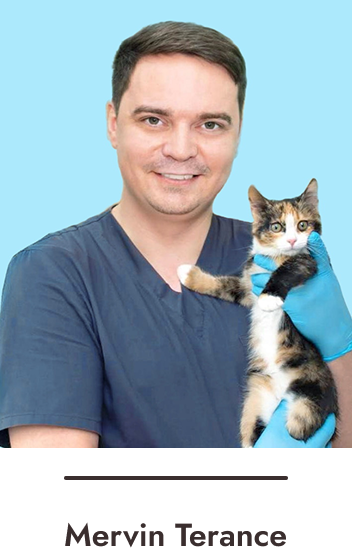
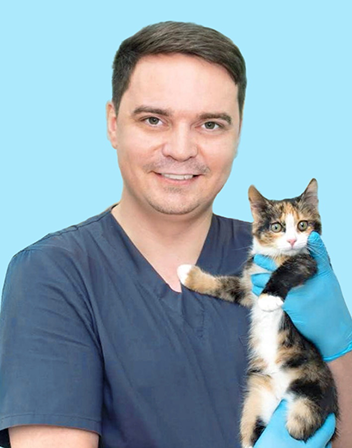
upd

diff --git a/style.css b/style.css
@@ -30,7 +30,7 @@ span{
     width: 1120px;
 }
 
-.header{
+.header{ 
     padding: 32px 0px 27px;
     background-color: #DDF9FF;
     
@@ -46,10 +46,10 @@ span{
     display: flex;
     gap: 64px;
 }
-
+ 
 .header-link{
     font-weight: 700;
-    size: 24px;
+    font-size: 24px;
     color: #3A2E2E;
 }
 
@@ -178,9 +178,7 @@ gap: 15px;
 
 .work-container{
     display: flex;
-    align-items: center;
-    justify-content: center;
-
+    gap: 28px;
 }
 
 .work-title{
@@ -193,10 +191,8 @@ gap: 15px;
 }
 
 .work-text{
-
     font-size: 20px;
     font-weight: 500;
-    padding-right:130px ;
 }
 
 
@@ -215,9 +211,9 @@ gap: 15px;
     justify-content: center;
     align-items: center;
     padding-bottom:18px ;
-     border-bottom: 4px solid #6278B4 ;
-     margin: 18px  auto 47px ;
-     width: 351px;
+    border-bottom: 4px solid #6278B4 ;
+    margin:47px auto;
+    width: 351px;
 
 }
 
@@ -230,7 +226,6 @@ gap: 15px;
 .our-list{
      display: flex;
     justify-content: space-between;
-    align-items: center;
 }
 
 
@@ -243,14 +238,11 @@ gap: 15px;
 .our-name{
     font-size: 32px;
     font-weight: 600;
-    display: flex;
     align-items: center;
     width: 224px;
     padding-top:32px ;
     margin: 18px  auto  ;
-     border-top: 4px solid #3A2E2E ;
     color: #3A2E2E;
-
 }
 
 

diff --git a/index.html b/index.html
@@ -9,7 +9,6 @@
   <link
     href="https://fonts.googleapis.com/css2?family=Exo+2:ital,wght@0,100..900;1,100..900&family=Inter:ital,opsz,wght@0,14..32,100..900;1,14..32,100..900&family=Jost:ital,wght@0,100..900;1,100..900&family=Montserrat:ital,wght@0,100..900;1,100..900&display=swap"
     rel="stylesheet">
-  <link rel="stylesheet" href="style.css">
 </head>
 
 <body>
@@ -153,7 +152,7 @@
 
           </li>
           <li class="our-item"><img class="subscription-img" src="./images/doctorcattwo.png" alt="Mervin Terance">
-            <h3 class="our-name"></h3>
+            <h3 class="our-name">Mervin Terance</h3>
 
           </li>
 
